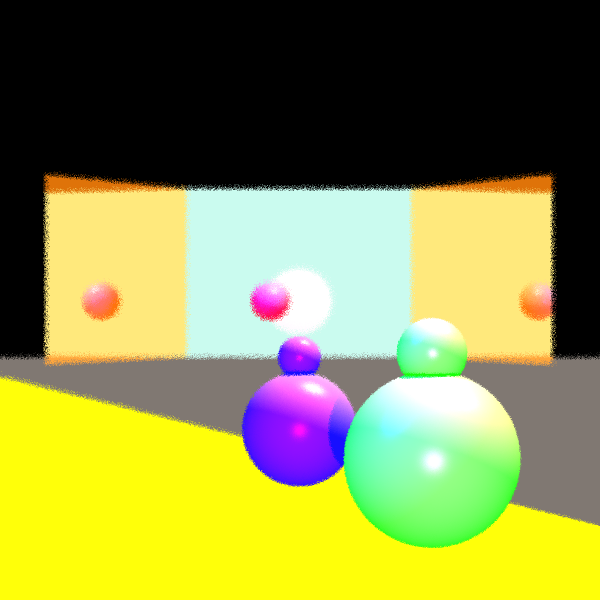
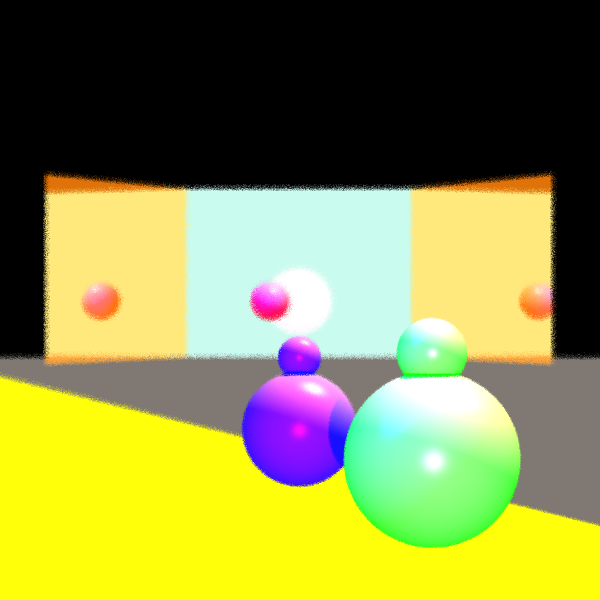
Stage 8:began jagged edges

diff --git a/src/renderer/Camera.java b/src/renderer/Camera.java
@@ -2,12 +2,10 @@ package renderer;
 
 import primitives.*;
 
-import java.util.LinkedList;
 import java.util.MissingResourceException;
-import java.util.OptionalDouble;
 import java.util.Random;
 
-import static java.lang.System.out;
+import static java.lang.Math.max;
 import static primitives.Util.isZero;
 
 /***
@@ -31,13 +29,16 @@ public class Camera {
     private RayTracerBase _rayTracerBase;
 
     //ON/OFF button default is off
-    private boolean _button = false;
+    private boolean _depthButton = false;
 
     //focal length
     private double _focalLength = 2;
     private double _apertureSize = 0.01;
 
     private static final int NUMBER_OF_APERTURE_POINTS = 10;
+
+    //ON/OFF button default is off
+    private boolean _JaggedEdgesButton = true;
 
 
     //constructor receives @param  Point centerCam,Vector vto, Vector vup and creates camera
@@ -260,14 +261,65 @@ public class Camera {
     }
 
 
+    /***
+     * cast ray is the main function in which the modifications of part 8 are made
+     * for this reason, there are multiple clauses checking which fix we are currently in
+     * this function casts a ray from the camera through the current pixel and returns the color of that pixel
+     * @param j the column of the pixel
+     * @param i the row of the pixel
+     * @return color of the pixel
+     */
     public Color castRay(int j, int i) {
-        if (!_button) { //on/off button
+
+        if ((!_depthButton) && (!_JaggedEdgesButton)) { //default code
             Ray thisPixelRay = constructRay(_imageWriter.getNx(), _imageWriter.getNy(), j, i);
+
             Color thisPixelColor = _rayTracerBase.traceRay(thisPixelRay);
 
             return thisPixelColor;
-        } else //code for the depth of field
-        {
+        }
+
+        if(_JaggedEdgesButton){
+            Ray thisPixelRay = constructRay(_imageWriter.getNx(), _imageWriter.getNy(), j, i);
+            double heightOfMiniPixel = (_heightVP/ _imageWriter.getNy())/9;
+            double widthOfMiniPixel = (_widthVP/ _imageWriter.getNx())/9;
+
+            //creating a point in the top left corner that is slightly outside the square so that our loop will bring it
+            //down and to the right each time and hit the center of a mini pixel
+            Point outerTopLeftCorner = thisPixelRay.getP0().add(_Vup.scale(_heightVP/2 + heightOfMiniPixel*0.5));
+            outerTopLeftCorner = outerTopLeftCorner.add(_Vright.scale(_widthVP/-2 + widthOfMiniPixel*0.5));
+
+            double colorX = 0;
+            double colorY = 0;
+            double colorZ = 0;
+
+            //for each mini pixel
+            for(int row = 1; row<=9; row++){
+                //lowers the point for each row
+                Point startPoint = outerTopLeftCorner.add(_Vup.scale(-1*row*heightOfMiniPixel));
+                for (int column = 1; column<=9; column++){
+                    Point currentPoint = startPoint.add(_Vright.scale(column*widthOfMiniPixel));
+                    Point movedPoint = movePointRandom(currentPoint, _Vup, _Vright, max(widthOfMiniPixel, heightOfMiniPixel));
+
+                    Ray jaggedEdgesRay = new Ray (movedPoint, thisPixelRay.getDir());
+                    Color thisPointColor = _rayTracerBase.traceRay(jaggedEdgesRay);
+
+                    colorX += thisPointColor.getColor().getRed();
+                    colorY += thisPointColor.getColor().getGreen();
+                    colorZ += thisPointColor.getColor().getBlue();
+                }
+            }
+
+            double averageX = colorX / 9;
+            double averageY = colorY / 9;
+            double averageZ = colorZ / 9;
+
+            Color thisPixelColor = new Color(averageX, averageY, averageZ);
+            return thisPixelColor;
+
+        }
+
+        if (_depthButton) { //on/off button
             //one time calculate focal point
             Ray thisPixelRay = constructRay(_imageWriter.getNx(), _imageWriter.getNy(), j, i);
             Point focalPoint = _centerCam.add(thisPixelRay.getDir().scale(_focalLength));
@@ -282,24 +334,9 @@ public class Camera {
             //     construct depth ray from the aperture point to the focal point
             //     get the color using trace ray and add to list
             for (int count = 0; count < NUMBER_OF_APERTURE_POINTS; count++) {
-                Random rand = new Random();
-                double moveUp = rand.nextDouble() * _apertureSize;
-                double moveRight = rand.nextDouble() * _apertureSize;
 
-                int upMinus = rand.nextInt()%2;
-                int rightMinus = rand.nextInt()%2;
-
-               if (upMinus == 0)
-                    upMinus = -1;
-
-                if (rightMinus == 0)
-                    rightMinus = -1;
-
-
-
-
-                Point movedPoint = _centerCam.add(_Vup.scale(moveUp*upMinus));
-                movedPoint = movedPoint.add(_Vright.scale(moveRight*rightMinus));
+                //helper function returns one random point around the center
+                Point movedPoint = movePointRandom(_centerCam, _Vup, _Vright, _apertureSize);
 
                 Ray depthRay = constructDepthRay(movedPoint, focalPoint);
                 Color thisPointColor = _rayTracerBase.traceRay(depthRay);
@@ -311,23 +348,52 @@ public class Camera {
             }
             // out of the for: calculate average of x,y,z for the colors (x,y,z)
 
-            double averageX = colorX/NUMBER_OF_APERTURE_POINTS;
-            double averageY = colorY/NUMBER_OF_APERTURE_POINTS;
-            double averageZ = colorZ/NUMBER_OF_APERTURE_POINTS;
+            double averageX = colorX / NUMBER_OF_APERTURE_POINTS;
+            double averageY = colorY / NUMBER_OF_APERTURE_POINTS;
+            double averageZ = colorZ / NUMBER_OF_APERTURE_POINTS;
 
             Color thisPixelColor = new Color(averageX, averageY, averageZ);
             return thisPixelColor;
         }
-
+        return Color.BLACK;
     }
 
     public void setButton(boolean button, double apertureSize, double focalLength) {
-        _button = button;
+        _depthButton = button;
         _apertureSize = apertureSize;
         _focalLength = focalLength;
     }
 
-    public void setButton(boolean button) {
-        _button = button;
+    public void setDepthButton(boolean depthButton) {
+        _depthButton = depthButton;
+    }
+
+    /***
+     * helper function implementing DRY
+     * @param origin the point for which to find a nearby
+     * @param up direction to move
+     * @param right direction to move
+     * @param aperture distance to move
+     * @return random point in rectangle around the origin
+     */
+    public Point movePointRandom(Point origin, Vector up, Vector right, double aperture) {
+        Random rand = new Random();
+        double moveUp = rand.nextDouble() * aperture;
+        double moveRight = rand.nextDouble() * aperture;
+
+        int upMinus = rand.nextInt() % 2;
+        int rightMinus = rand.nextInt() % 2;
+
+        if (upMinus == 0)
+            upMinus = -1;
+
+        if (rightMinus == 0)
+            rightMinus = -1;
+
+
+        Point movedPoint = origin.add(up.scale(moveUp * upMinus));
+        movedPoint = movedPoint.add(right.scale(moveRight * rightMinus));
+
+        return movedPoint;
     }
 }

diff --git a/unittests/renderer/ReflectionRefractionTests.java b/unittests/renderer/ReflectionRefractionTests.java
@@ -295,4 +295,95 @@ public class ReflectionRefractionTests {
                 .renderImage()
                 .writeToImage();
     }
+
+    /**
+     * our test
+     */
+    @Test
+    public void ourImageWithoutJaggedEdges() {
+        Camera camera = new Camera(new Point(80, 0, 2), new Vector(-1, 0, 0), new Vector(0, 0, 1))
+                .setVPSize(200, 200).setVPDistance(1000);
+
+
+        Scene scene2 = new Scene.SceneBuilder("Our test - jagged edges")
+                .setAmbientLight(new AmbientLight(Color.BROWN, new Double3(0.15))).setBackground(Color.BLACK).build();
+
+        Point p0 = new Point(0, -3, 5);
+        Point p1 = new Point(0, 3, 5);
+        Point p2 = new Point(0, 3, 0);
+        Point p3 = new Point(0, -3, 0);
+        Point p4 = new Point(9, 6, 5);
+        Point p5 = new Point(9, 6, 0);
+        Point p6 = new Point(9, -6, 0);
+        Point p7 = new Point(9, -6, 5);
+
+        Point p8 = new Point(1, 0, 0);
+        Point p9 = new Point(2, 1, 0);
+        Point p10 = new Point(3, 0, 0);
+        Point p11 = new Point(2, -1, 0);
+        Point p12 = new Point(1, 0, 2);
+        Point p13 = new Point(2, 1, 2);
+        Point p14 = new Point(3, 0, 2);
+        Point p15 = new Point(2, -1, 2);
+
+        Point p16 = new Point(0,-10,0.5);
+        Point p17 = new Point(0,10,0.5);
+        Point p18 = new Point(100, -10, 0.5);
+        Point p19 = new Point(100, 10, 0.5);
+
+
+        scene2._geometries.add(
+                //window
+                new Quadrangle(p0, p1, p2, p3).setTransparency(new Double3(0.7)).setColor(Color.LIGHT_BLUE),
+                //mirrors
+                new Quadrangle(p1, p2, p5, p4).setReflectivity(new Double3(0.5)).setShininess(1000).setColor(Color.GOLD),
+                new Quadrangle(p7, p0, p3, p6).setReflectivity(new Double3(0.5)).setShininess(1000).setColor(Color.GOLD),
+                //sun
+                new Sphere(new Point(-100, 0, 2), 2d)
+                        .setEmission(Color.RED)
+                        .setMaterial(new Material().setKd(0.5).setKs(0.5).setShininess(30)),
+                //close to window
+                new Sphere(new Point(1, -0.75, 2), 0.5)
+                        .setEmission(Color.RED)
+                        .setMaterial(new Material().setKd(0.5).setKs(0.5).setShininess(30)),
+                //close to camera bigger
+                new Sphere(new Point(63, 0.75, 1.1), 0.5)
+                        .setEmission(Color.GREEN)
+                        .setMaterial(new Material().setKd(0.5).setKs(0.5).setShininess(30)),
+                new Sphere(new Point(63, 0.75, 1.7), 0.2)
+                        .setEmission(Color.GREEN)
+                        .setMaterial(new Material().setKd(0.5).setKs(0.5).setShininess(30)),
+                //close to camera smaller
+                new Sphere(new Point(59, 0, 1.1), 0.4)
+                        .setEmission(Color.BLUE)
+                        .setMaterial(new Material().setKd(0.5).setKs(0.5).setShininess(30)),
+                new Sphere(new Point(59, 0, 1.6), 0.15)
+                        .setEmission(Color.BLUE)
+                        .setMaterial(new Material().setKd(0.5).setKs(0.5).setShininess(30)),
+                //floor
+                //new Quadrangle(p16, p17, p19, p18).setColor(Color.YELLOW)
+                new Triangle(p16,p17,p19).setEmission(Color.DARK_GRAY),
+                new Triangle(p19,p18,p16).setEmission(Color.YELLOW)
+
+                //cube
+                // new Quadrangle(p8, p9, p10, p11),
+                //new Quadrangle(p12, p13, p14, p15),
+                //new Quadrangle(p13, p9, p10, p14),
+                //new Quadrangle(p14, p10, p11, p15),
+                //new Quadrangle(p15, p12, p8, p11),
+                //new Quadrangle(p12, p13, p9, p8)
+        );
+
+        scene2._lights.add(new Spotlight(new Color(700, 400, 400),
+                new Point(40, 40, 115),
+                new Vector(-1, -1, -4)));
+        scene2._lights.add(new PointLight(Color.BLUE, new Point(100, -100, 100)));
+        scene2._lights.add(new DirectionalLight(Color.MAGENTA,new Vector(-1,0,0)));
+
+        ImageWriter imageWriter = new ImageWriter("our test jagged edges", 600, 600);
+        camera.setImageWriter(imageWriter)
+                .setRayTracer(new RayTracerBasic(scene2))
+                .renderImage()
+                .writeToImage();
+    }
 }
